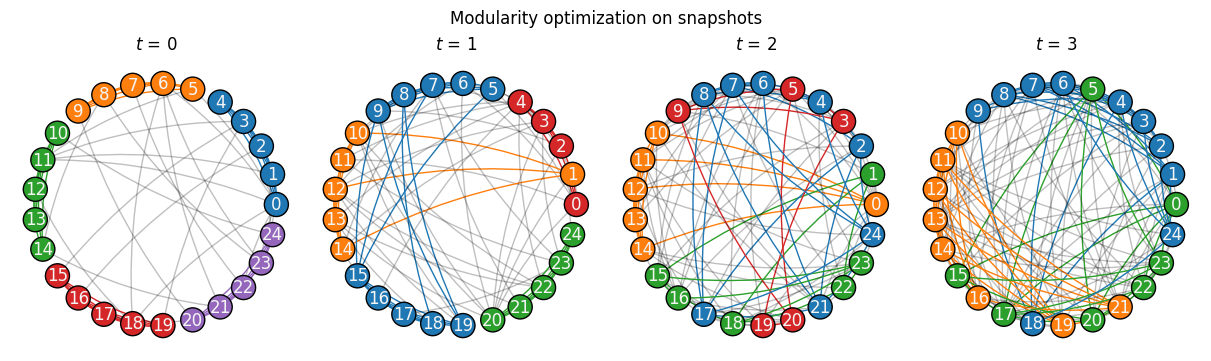
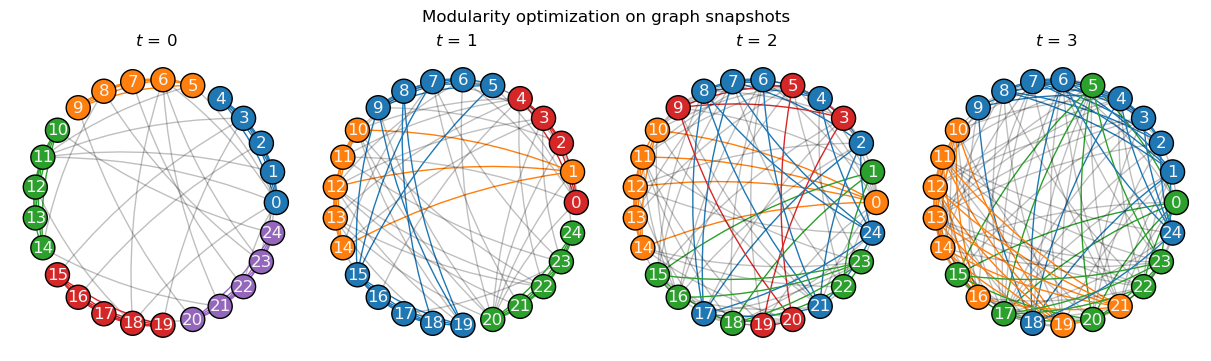
Updated documentation.

diff --git a/docs/source/examples/community.rst b/docs/source/examples/community.rst
@@ -170,7 +170,7 @@ colors) are not fixed over snapshots, which makes it harder to track their mesos
    >>>     temporal_node_color=temporal_node_color,
    >>>     temporal_edge_color=temporal_edge_color,
    >>>     connectionstyle="arc3,rad=0.1",
-   >>>     suptitle="Modularity optimization on each snapshot")
+   >>>     suptitle="Modularity optimization on graph snapshots")
 
 .. image:: ../../assets/figure/fig-11.png
 
@@ -185,7 +185,7 @@ On the temporal graph
 Considering snapshots as layers (slices) of a multiplex graph, with `interslice edges coupling
 temporal node copies <https://leidenalg.readthedocs.io/en/stable/multiplex.html#slices-to-layers)>`__,
 is one way of employing modularity optimization on dynamic graphs, which may help to better capture
-their mesoscale structures. The example below uses the same algorithm as before:
+their mesoscale structures [4]_. This example uses the same algorithm as before:
 
 .. code-block:: python
 
@@ -213,7 +213,7 @@ their mesoscale structures. The example below uses the same algorithm as before:
    >>>     temporal_node_color=temporal_node_color,
    >>>     temporal_edge_color=temporal_edge_color,
    >>>     connectionstyle="arc3,rad=0.1",
-   >>>     suptitle="Modularity optimization on multiplex graph")
+   >>>     suptitle="Modularity optimization on multislice graph")
 
 .. image:: ../../assets/figure/fig-12.png
 
@@ -237,3 +237,6 @@ for which this package provides a flexible framework to work with, especially in
    Cambridge University Press.
 
 .. [3] Mark Newman (2018). ''Networks''. Oxford University Press, 2nd ed., pp. 498--514.
+
+.. [4] P. J. Mucha et al (2010). ''Community Structure in Time-Dependent,
+   Multiscale, and Multiplex Networks''. Science, 328, 876--878.

diff --git a/docs/source/examples/basics.rst b/docs/source/examples/basics.rst
@@ -267,7 +267,7 @@ node-level attributes resulted in it being placed at the snapshot :math:`t=0` in
 .. note::
 
     When ``level='node'``, the source node's temporal attribute is used by default to determine the
-    time step of an edge. This behavior can be changed by setting ``node_level='target'`` instead.
+    time step of an edge. This behavior can be changed by setting ``level='target'`` instead.
 
 
 -----
